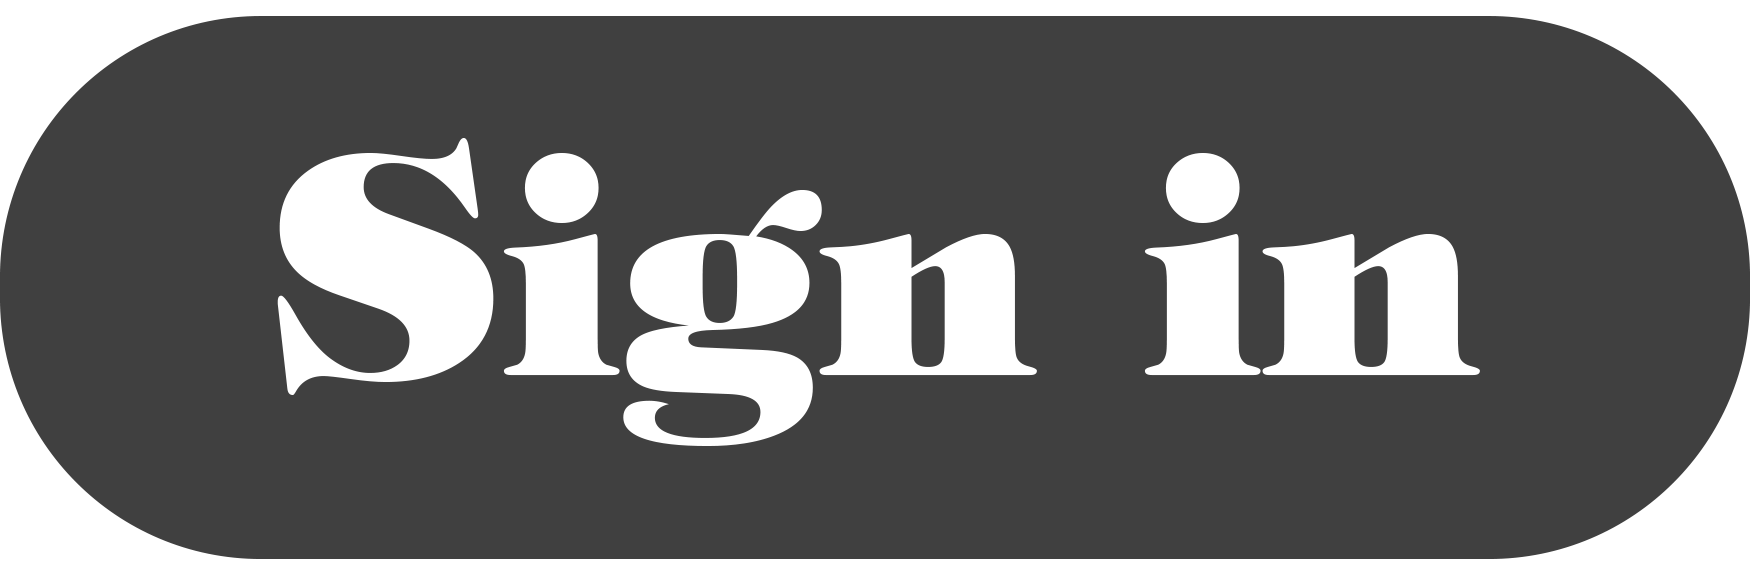
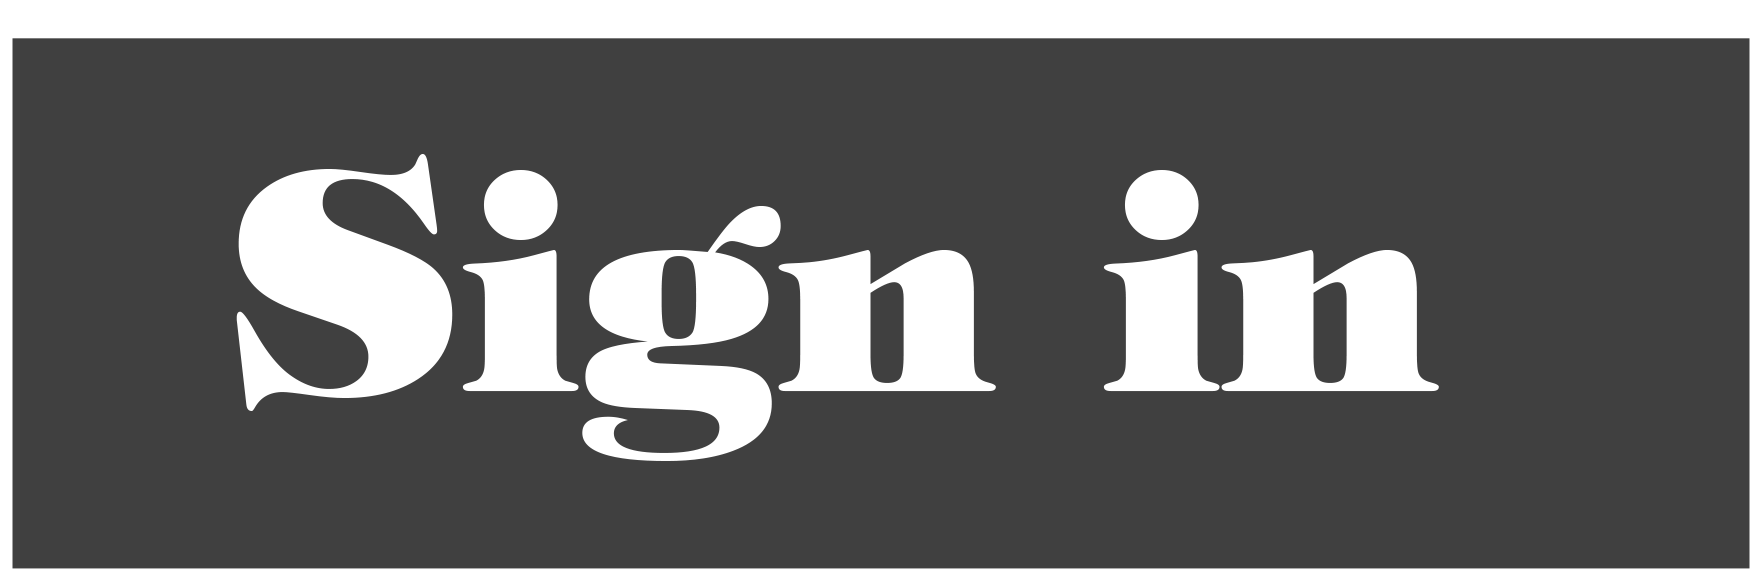
Connect student

diff --git a/Student_begin.py b/Student_begin.py
@@ -1,23 +1,25 @@
 from tkinter import *
+from DB import *
 class Open_S(Frame):
-    def __init__(self,master=None):
+    def __init__(self,master,id):
         Frame.__init__(self,master)
         self.master=master
         self.can=[]
+        self.id=id
+        self.con,self.cur=connect_DB("Sinhvien.db")
+        self.arr_info=Select_ISV(self.cur,self.id)
         self.display()
-    
+
     def display(self):
         self.master.geometry("600x400")
+
         self.can.append(Canvas(self.master,height=250,width=200,bg="white"))
-        self.can[0].create_text(100,50,text="Thong tin sinh vien")
-        self.can[0].create_text(10,10,text="Id")
-        self.can[0].create_text(20,30,text="Name")
         self.can[0].pack()
         self.can[0].place(bordermode=OUTSIDE,x=0,y=0)
         self.frame=Frame(self.master,height=250,width=250)
         self.frame.pack(expand=True,fill=BOTH)
         self.frame.place(x=200,y=0)
-        self.can.append(Canvas(self.frame,height=250,width=250,bg="red",scrollregion=(0,0,500,500)))
+        self.can.append(Canvas(self.frame,height=250,width=250,bg="gray",scrollregion=(0,0,500,500)))
         self.Xbar=Scrollbar(self.frame,command=self.can[1].xview,orient=HORIZONTAL)
         self.Xbar.pack(side=BOTTOM,fill=X)
         self.Ybar=Scrollbar(self.frame,command=self.can[1].yview)
@@ -25,20 +27,66 @@ class Open_S(Frame):
         self.can[1].create_text(300,300,text="Hello",fill="Blue")
         self.can[1].config(xscrollcommand=self.Xbar.set,yscrollcommand=self.Ybar.set)
         self.can[1].pack(expand=True,fill=BOTH)
+        
+        #LABEL INFO
+        a=Label(self.can[0],text="THONG TIN SINH VIEN")
+        a.place(x=35,y=5)
+        #ID
+        self.ID1=Label(self.can[0],text="ID")
+        self.ID1.place(x=0,y=35)
+        self.ID2=Label(self.can[0],text=self.arr_info[0])
+        self.ID2.place(x=50,y=35)
+        #Name
+        self.Name1=Label(self.can[0],text="Name")
+        self.Name1.place(x=0,y=65)
+        self.Name2=Label(self.can[0],text=self.arr_info[2])
+        self.Name2.place(x=50,y=65)
+        #Class        
+        self.Class_1=Label(self.can[0],text="Class")
+        self.Class_1.place(x=0,y=95)
+        self.Class_2=Label(self.can[0],text=self.arr_info[1])
+        self.Class_2.place(x=50,y=95)
+        #Birthday
+        self.birth1=Label(self.can[0],text="Birthday")
+        self.birth1.place(x=0,y=125)
+        self.birth2=Label(self.can[0],text=self.arr_info[3])
+        self.birth2.place(x=50,y=125)
+        #Gender
+        self.Gender1=Label(self.can[0],text="Gender")
+        self.Gender1.place(x=0,y=155)
+        self.Gender2=Label(self.can[0],text=self.arr_info[4])
+        self.Gender2.place(x=50,y=155)
+        #Phone
+        self.Phone1=Label(self.can[0],text="Phone")
+        self.Phone1.place(x=0,y=185)
+        self.Phone2=Label(self.can[0],text=self.arr_info[5])
+        self.Phone2.place(x=50,y=185)
+        #Email
+        self.Email1=Label(self.can[0],text="Email")
+        self.Email1.place(x=0,y=215)
+        self.Email2=Label(self.can[0],text=self.arr_info[6])
+        self.Email2.place(x=50,y=215)
+
         A=Button(self.master,text = "Join class",width=17,height=5,bg="yellow")
         A.pack()
         A.place(x=470,y=0)
+        
         B=Button(self.master,text = "Resign class",width=17,height=5,bg="blue")
         B.pack()
         B.place(x=470,y=80)
+        
         C=Button(self.master,text = "Change info",bg="red")
         C.pack()
-        C.place(x=70,y=250)
+        C.place(x=60,y=250)
+        
         D=Button(self.master,text = "backPage",bg="orange")
         D.pack()
         D.place(x=200,y=270)
+        
         E=Button(self.master,text = "nextPge",bg="orange")
         E.pack()
         E.place(x=400,y=270)
+        
         self.master.mainloop()
-App=Open_S(Tk())
+
+Open_S(Tk(),"Sang")

diff --git a/registration.py b/registration.py
@@ -1,5 +1,5 @@
-from DB import *
 from tkinter import *
+from DB import *
 import hashlib
 import string
 import random
@@ -12,11 +12,17 @@ class registration(Frame):
         self.master=master
         self.passWord=StringVar()
         self.account=StringVar()
+        self.Class=StringVar()
+        self.name=StringVar()
+        self.birth=StringVar()
+        self.sex=StringVar()
+        self.phone=StringVar()
+        self.email=StringVar()
         self.con,self.cur=connect_DB("Sinhvien.db")
         self.display()
 
     def display(self):
-        A=Label(self.master,text="Account")
+        A=Label(self.master,text="Id")
         B=Entry(self.master,textvariable=self.account)
         C=Label(self.master,text="Passworld")
         D=Entry(self.master,textvariable=self.passWord)
@@ -26,8 +32,20 @@ class registration(Frame):
         D.grid(column=1,row=1)
         E=Button(self.master,text="OK",command=self.reg)
         F=Button(self.master,text="Cancel",command=self.master.destroy)
-        E.grid(column=2,row=2)
-        F.grid(column=0,row=2)
+        E.grid(column=2,row=8)
+        F.grid(column=0,row=8)
+        Label(self.master,text="Class").grid(column=0,row=2)
+        Entry(self.master,textvariable=self.Class).grid(column=1,row=2)
+        Label(self.master,text="Name").grid(column=0,row=3)
+        Entry(self.master,textvariable=self.name).grid(column=1,row=3)
+        Label(self.master,text="Birthday").grid(column=0,row=4)
+        Entry(self.master,textvariable=self.birth).grid(column=1,row=4)
+        Label(self.master,text="Sex").grid(column=0,row=5)
+        Entry(self.master,textvariable=self.sex).grid(column=1,row=5)
+        Label(self.master,text="Phone").grid(column=0,row=6)
+        Entry(self.master,textvariable=self.phone).grid(column=1,row=6)
+        Label(self.master,text="Email").grid(column=0,row=7)
+        Entry(self.master,textvariable=self.email).grid(column=1,row=7)
         self.mainloop()
 
     def reg(self):
@@ -43,9 +61,7 @@ class registration(Frame):
         passWord=mk
         # print(passWord)
         # mk.update(self.passWord.encode())
-        success=Insert_SV(self.cur,self.con,self.account.get(),passWord,salt)
-        if success:
-            print("True")
-        else:
-            print("False")
+        Insert_SV(self.cur,self.con,self.account.get(),passWord,salt)
+        a=Insert_ISV(self.cur,self.con,self.account.get(),self.Class.get(),self.name.get(),self.birth.get(),self.sex.get(),self.phone.get(),self.email.get())
+        print(a)
         self.master.destroy()

diff --git a/Login_Student.py b/Login_Student.py
@@ -1,6 +1,5 @@
-from tkinter import *
-from DB import *
 from registration import *
+from Student_begin import *
 from PIL import Image, ImageTk
 import hashlib
 import time 
@@ -22,28 +21,32 @@ class Login(Frame):
         self.hinh.append(ImageTk.PhotoImage(self.load[1]))
         self.load.append(Image.open("Image\\Entry.png"))
         self.hinh.append(ImageTk.PhotoImage(self.load[2]))
+        self.load.append(Image.open("Image\\Sign-Up100x50.png"))
+        self.hinh.append(ImageTk.PhotoImage(self.load[3]))
         Label(self.master,image=self.hinh[1]).place(x=0,y=0)
+        self.master.minsize(800,500)
         self.master.maxsize(800,500)
         A=Label(self.master,text="Account")
         B=Entry(self.master,textvariable=self.account,bg="gray",selectbackground="black")
         C=Label(self.master,text="Passworld")
         D=Entry(self.master,textvariable=self.password,show="*",bg="gray")
         E=Button(self.master,image=self.hinh[0],command=self.login)
-        F=Button(self.master,text="registration",command=self.reg)
+        F=Button(self.master,image=self.hinh[3],command=self.reg)
         K=Button(self.master,text="Exit")
-        A.place(bordermode=OUTSIDE,x=0,y=60)
-        B.place(bordermode=OUTSIDE,x=60,y=60)
-        C.place(bordermode=OUTSIDE,x=0,y=80)
-        D.place(bordermode=OUTSIDE,x=60,y=80)
-        E.place(bordermode=OUTSIDE,x=0,y=100)
-        F.place(bordermode=OUTSIDE,x=70,y=100)
-        K.place(bordermode=OUTSIDE,x=170,y=100) 
+        A.place(bordermode=OUTSIDE,x=300,y=150)
+        B.place(bordermode=OUTSIDE,x=362,y=152)
+        C.place(bordermode=OUTSIDE,x=300,y=170)
+        D.place(bordermode=OUTSIDE,x=362,y=172)
+        E.place(bordermode=OUTSIDE,x=300,y=300)
+        F.place(bordermode=OUTSIDE,x=500,y=300)
+        # K.place(bordermode=OUTSIDE,x=170,y=100) 
         # self.master.bind('<Button-1>',self.motion)
         self.master.mainloop()
 
     def login(self):
         if Checkpassworld(self.cur,self.account.get(),self.password.get()):
-            print("True")
+            self.master.destroy()
+            Open_S(Tk())
         else :
             print("Flase")
 

diff --git a/ISV.py b/ISV.py
@@ -1,0 +1,46 @@
+from tkinter import *
+from DB import *
+
+class ifs(Frame):
+    def __init__(self,master,ID):
+        Frame.__init__(self,master)
+        self.master=master
+        self.ID=ID
+        self.Class=StringVar()
+        self.name=StringVar()
+        self.birth=StringVar()
+        self.sex=StringVar()
+        self.phone=StringVar()
+        self.email=StringVar()
+        self.Class=StringVar()
+        self.name=StringVar()
+        self.birth=StringVar()
+        self.sex=StringVar()
+        self.phone=StringVar()
+        self.email=StringVar()
+        self.con,self.cur=connect_DB("Sinhvien.db")
+        self.display()
+
+    def display(self):
+        Label(self.master,text="Id").grid(column=0,row=0)
+        Label(self.master,text=self.ID).grid(column=1,row=0)
+        Label(self.master,text="Class").grid(column=0,row=1)
+        Entry(self.master,textvariable=self.Class).grid(column=1,row=1)
+        Label(self.master,text="Name").grid(column=0,row=2)
+        Entry(self.master,textvariable=self.name).grid(column=1,row=2)
+        Label(self.master,text="Birthday").grid(column=0,row=3)
+        Entry(self.master,textvariable=self.birth).grid(column=1,row=3)
+        Label(self.master,text="Sex").grid(column=0,row=4)
+        Entry(self.master,textvariable=self.sex).grid(column=1,row=4)
+        Label(self.master,text="Phone").grid(column=0,row=5)
+        Entry(self.master,textvariable=self.phone).grid(column=1,row=5)
+        Label(self.master,text="Email").grid(column=0,row=6)
+        Entry(self.master,textvariable=self.email).grid(column=1,row=6)
+        Button(self.master,text="OK",command=self.Ok).grid(column=3,row=7)
+
+        self.master.mainloop()
+
+    def Ok(self):
+        a=Insert_ISV(self.cur,self.con,self.ID,self.Class,self.name,self.birth,self.sex,self.phone,self.email)
+        print(a)
+        self.master.destroy()

diff --git a/DB.py b/DB.py
@@ -77,8 +77,53 @@ def Checkpassworld(cur,id,pas):
     else:
         return False
 
+def Creat_TableISV(cur):
+    strSQL = """
+        CREATE TABLE if not exists ISV
+        (
+            ID text PRIMARY KEY,
+            CLASS text,
+            NAME text,
+            BIRTHDAY date,
+            SEX text,
+            PHONE text,
+            EMAIL text
+        )"""
+    str
+    success_flag = True
+    try :
+        cur.execute(strSQL)
+    except:
+        success_flag = False
+    if success_flag == True :
+        print("Creat Ok")
+    else:
+        print("Creat Fail: ")
+
+def Insert_ISV(cur,con,id,claSs,name,birth,sex,phone,email):
+    success_flag=True
+    try:
+        cur.execute("""INSERT OR IGNORE INTO ISV
+                VALUES(?,?,?,?,?,?,?)""",(id,claSs,name,birth,sex,phone,email))
+    except:
+        success_flag=False
+    if success_flag == True:
+        con.commit()
+        return True
+    else:
+        return False
+
+def Select_ISV(cur,id):
+    result = cur.execute("SELECT * FROM ISV WHERE ID = ?;",(id,)).fetchone()
+    return result
+
 
 # con,cur=connect_DB("Sinhvien.db")
+# a=Select_ISV(cur,"Sang")
+# print(a)
+# a=Insert_ISV(cur,con,"123","","","","","","")
+# print(a)
+# Creat_TableISV(cur)
 # a=Select_SV_salt(cur,"123")
 # print(a)
 # a=Insert_SV(cur,con,"12","123abc","abc")

diff --git a/Resever.py b/Resever.py
@@ -1,5 +1,5 @@
 from PIL import Image
 
-img= Image.open("Image\\GenyTeam.png")
-img= img.resize((800, 500), Image.ANTIALIAS)
-img.save("Image\\GenyTeam50x50.png")
+img= Image.open("Image\\Sign-Up.png")
+img= img.resize((100, 50), Image.ANTIALIAS)
+img.save("Image\\Sign-Up100x50.png")
